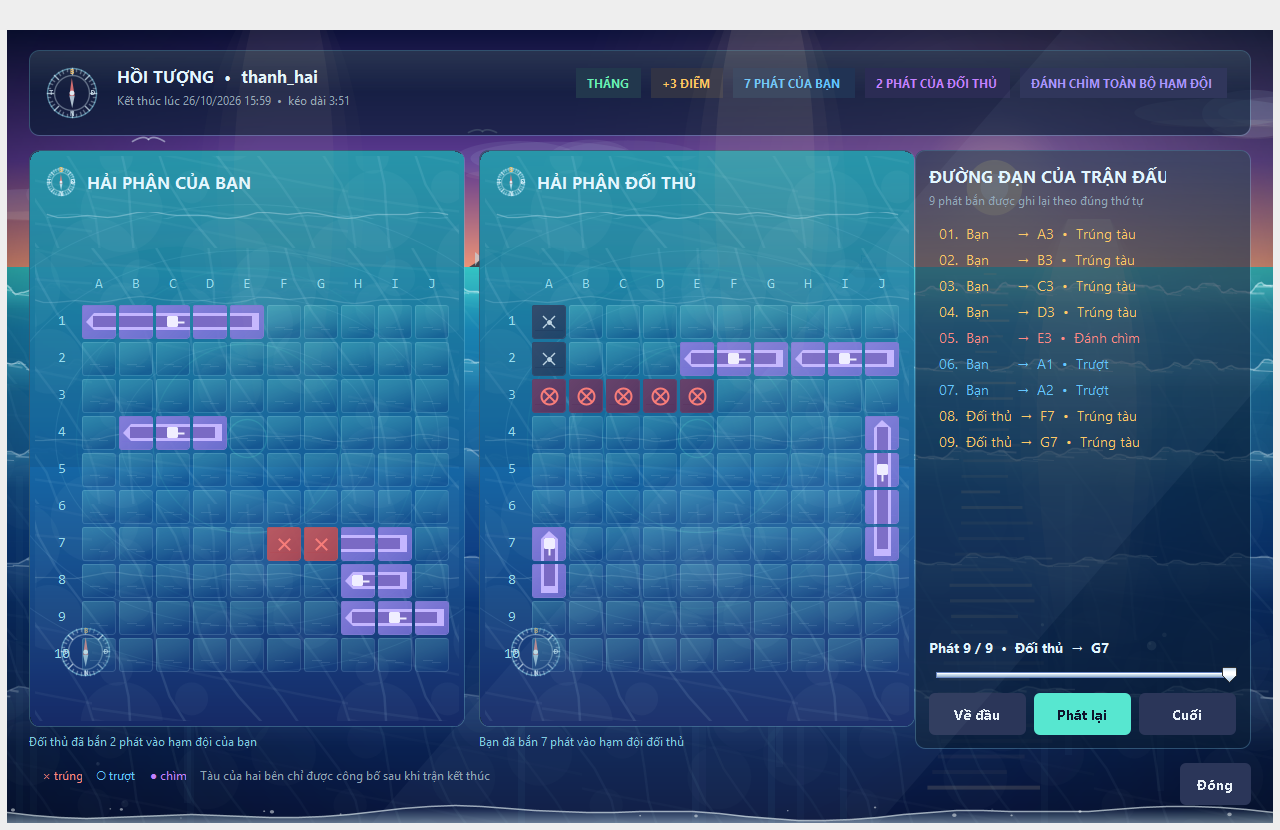
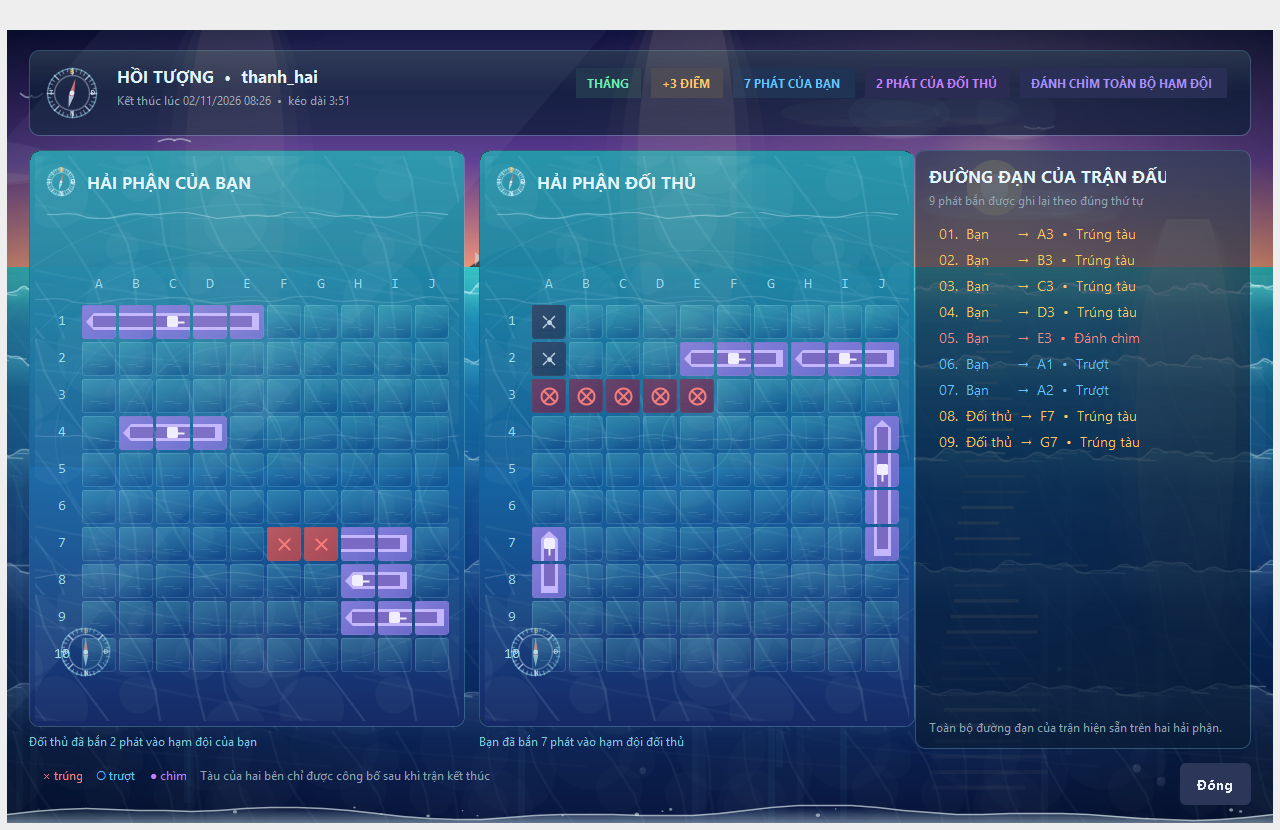
refactor: show the whole match record instead of replaying it
The after-action screen no longer plays the match back: the slider and the Về đầu / Phát lại /
Cuối controls are gone, both charts and the full shot log are drawn as soon as the window opens,
and picking a row in the log no longer rewinds the boards. What stays is the record itself: result
chips, the two fleet charts at their final state, and the shot list in firing order.

The removed playback could never pass its second shot: the slider was built with a maximum of 1 and
never widened to the shot count, so every setValue was clamped and each 360 ms tick recomputed step
2. Storage, the wire protocol and GET_MATCH_DETAIL_REQ are untouched, so the server keeps saving the
result, both fleets and the shot log, still readable only by the two players.

Docs and evidence follow: README and UI_GUIDE describe the record screen without playback,
docs/ui/match-replay.png is re-rendered and match-replay-early.png (the rewound state) is dropped.
OceanVisualTests asserts the screen carries no playback controls and that picking a row leaves the
whole chart and log in place.

Verified: run_tests.ps1 -Ocean PASS, run_tests.ps1 ALL TESTS PASSED.

diff --git a/src/client/ui/MatchReplayDialog.java b/src/client/ui/MatchReplayDialog.java
@@ -44,13 +44,6 @@ public class MatchReplayDialog extends JDialog {
     private final List<Ship> myShips, enemyShips;
     private final DefaultListModel<String> shotModel = new DefaultListModel<>();
     private final JList<String> shotList = new JList<>(shotModel);
-    private final JSlider slider = new JSlider(0, 1, 1);
-    private final JLabel lblStep = Theme.label(" ", Theme.FONT_BOLD, Theme.SEA_FOAM);
-    private final JButton btnPlay = Theme.button("Phát lại", true);
-    private final JButton btnHead = Theme.button("Về đầu", false);
-    private final JButton btnTail = Theme.button("Cuối", false);
-    private final Timer player;
-    private boolean updating;
 
     public MatchReplayDialog(Window parent, int myUserId, Map<String, Object> data) {
         super(parent, "Battleship • Hồi tượng trận đấu", ModalityType.MODELESS);
@@ -107,16 +100,9 @@ public class MatchReplayDialog extends JDialog {
         footer.add(close, BorderLayout.EAST);
         root.add(footer, BorderLayout.SOUTH);
 
-        player = new Timer(360, e -> stepForward());
-        player.setCoalesce(true);
-        slider.addChangeListener(e -> { if (!updating) show(slider.getValue()); });
-        btnPlay.addActionListener(e -> togglePlay());
-        btnHead.addActionListener(e -> { player.stop(); btnPlay.setText("Phát lại"); show(0); });
-        btnTail.addActionListener(e -> { player.stop(); btnPlay.setText("Phát lại"); show(shots.size()); });
         shotList.setCellRenderer(Theme.logRenderer());
-        shotList.addListSelectionListener(e -> { if (!e.getValueIsAdjusting() && !updating && shotList.getSelectedIndex() >= 0) { player.stop(); btnPlay.setText("Phát lại"); show(shotList.getSelectedIndex() + 1); } });
         getRootPane().registerKeyboardAction(e -> dispose(), KeyStroke.getKeyStroke("ESCAPE"), JComponent.WHEN_IN_FOCUSED_WINDOW);
-        show(shots.size());
+        render();
     }
 
     private JPanel chart(String title, BoardGridPanel board, String caption) {
@@ -141,53 +127,21 @@ public class MatchReplayDialog extends JDialog {
         shotList.setFixedCellHeight(26); shotList.setSelectionBackground(new Color(44, 120, 140, 150));
         JScrollPane scroll = Theme.scroll(shotList); Theme.transparentScroll(scroll);
         side.add(scroll, BorderLayout.CENTER);
-        JPanel controls = Theme.stack();
-        Theme.addStack(controls, lblStep, 10);
-        slider.setOpaque(false); slider.setForeground(Theme.PRIMARY); slider.setMaximumSize(new Dimension(Integer.MAX_VALUE, 28));
-        Theme.addStack(controls, slider, 10);
-        JPanel row = Theme.transparent(new GridLayout(1, 3, 8, 0));
-        row.add(btnHead); row.add(btnPlay); row.add(btnTail);
-        row.setMaximumSize(new Dimension(Integer.MAX_VALUE, 42));
-        Theme.addStack(controls, row, 0);
-        side.add(controls, BorderLayout.SOUTH);
+        side.add(Theme.muted("Toàn bộ đường đạn của trận hiện sẵn trên hai hải phận."), BorderLayout.SOUTH);
         return side;
     }
 
-    private void togglePlay() {
-        if (player.isRunning()) { player.stop(); btnPlay.setText("Phát lại"); return; }
-        if (slider.getValue() >= shots.size()) show(0);
-        player.start(); btnPlay.setText("Tạm dừng");
-    }
-
-    private void stepForward() {
-        int next = slider.getValue() + 1;
-        if (next >= shots.size()) { show(shots.size()); player.stop(); btnPlay.setText("Phát lại"); return; }
-        show(next);
-    }
-
-    private void show(int count) {
-        int upTo = Math.max(0, Math.min(count, shots.size()));
-        updating = true;
-        slider.setValue(upTo);
-        shotModel.clear();
-        for (int i = 0; i < upTo; i++) shotModel.addElement(line(i));
-        if (upTo > 0) shotList.ensureIndexIsVisible(upTo - 1);
-        updating = false;
+    private void render() {
         myBoard.resetAllCells(); myBoard.setFleet(myShips);
         enemyBoard.resetAllCells(); enemyBoard.setFleet(enemyShips);
-        for (int i = 0; i < upTo; i++) {
+        for (int i = 0; i < shots.size(); i++) {
+            shotModel.addElement(line(i));
             Shot shot = shots.get(i);
             BoardGridPanel target = shot.mine ? enemyBoard : myBoard;
             if ("SUNK".equals(shot.result)) {
                 for (Coordinate cell : shot.sunk) target.setCellState(cell.getX(), cell.getY(), BoardGridPanel.CellState.SUNK);
                 target.setCellState(shot.x, shot.y, BoardGridPanel.CellState.SUNK);
             } else target.setCellState(shot.x, shot.y, "HIT".equals(shot.result) ? BoardGridPanel.CellState.HIT : BoardGridPanel.CellState.MISS);
-        }
-        if (upTo == 0) lblStep.setText("Chưa bắn phát nào. Nhấn Phát lại để xem toàn bộ đường đạn.");
-        else {
-            Shot last = shots.get(upTo - 1);
-            lblStep.setText(String.format(Locale.ROOT, "Phát %d / %d  •  %s  →  %s", upTo, shots.size(),
-                    last.mine ? "Bạn" : "Đối thủ", BoardGridPanel.coordinate(last.x, last.y)));
         }
     }
 
@@ -201,5 +155,4 @@ public class MatchReplayDialog extends JDialog {
     public JList<String> shots() { return shotList; }
     public BoardGridPanel myBoard() { return myBoard; }
     public BoardGridPanel enemyBoard() { return enemyBoard; }
-    @Override public void dispose() { if (player != null) player.stop(); super.dispose(); }
 }

diff --git a/tests/OceanVisualTests.java b/tests/OceanVisualTests.java
@@ -251,13 +251,11 @@ public final class OceanVisualTests {
             for(int i=0;i<2;i++)check(replayDialog.myBoard().getCellState(myHits.get(i).getX(),myHits.get(i).getY())==BoardGridPanel.CellState.HIT,"replayed own chart shows the enemy hits");
             for(Ship ship:mine)for(Coordinate c:ship.getCoordinates())check(replayDialog.myBoard().getCellState(c.getX(),c.getY())!=BoardGridPanel.CellState.WATER,"own fleet is drawn on the replayed chart");
             for(Coordinate c:theirs.get(4).getCoordinates())check(replayDialog.enemyBoard().getCellState(c.getX(),c.getY())==BoardGridPanel.CellState.SHIP,"untouched ships stay visible on the replayed chart");
+            check(SwingSmoke.button(replayDialog,"Phát lại")==null,"the record screen carries no playback controls");
             SwingSmoke.snapshot(replayDialog,dir.resolve("match-replay.png"));
             replayDialog.shots().setSelectedIndex(2);
-        });
-        SwingSmoke.edt(()->{
-            check(replayDialog.shots().getModel().getSize()==3,"picking a shot rewinds the replay to that point");
-            check(replayDialog.enemyBoard().getCellState(victim.get(3).getX(),victim.get(3).getY())==BoardGridPanel.CellState.SHIP,"later shots are removed when the replay is rewound");
-            SwingSmoke.snapshot(replayDialog,dir.resolve("match-replay-early.png"));
+            check(replayDialog.shots().getModel().getSize()==log.size(),"picking a row keeps the whole shot log on screen");
+            check(replayDialog.enemyBoard().getCellState(victim.get(3).getX(),victim.get(3).getY())==BoardGridPanel.CellState.SUNK,"picking a row leaves every shot on the chart");
             replayDialog.dispose();replayDialog=null;
         });
     }

diff --git a/README.md b/README.md
@@ -129,7 +129,7 @@ Test tự tạo thư mục `%TEMP%/battleship-*`, chọn cổng riêng bằng po
 7. Sau kết thúc bình thường, cả hai Chơi lại trong 30 giây: trở lại đặt tàu với match ID mới, timer của ván hai hoạt động. Từ chối, thoát hoặc hết hạn thì về sảnh.
 8. Dừng server rồi chạy lại: điểm và lịch sử giữ nguyên. Có thể mở bốn client, ghép hai cặp và cho một trận timeout/thoát để chứng minh trận còn lại tiếp tục.
 9. Sau khi hết trận, xem chữ **WIN** hoặc **LOSE** rơi xuống rồi **hai hải phận mở tung**: bàn của bạn với các phát bắn của đối thủ và bàn đối thủ với các phát bắn của bạn, kèm điểm, số phát bắn, độ chính xác và lý do kết thúc.
-10. Mở **Lịch sử đấu** ở cột trái sảnh rồi nhấn vào dòng vừa đấu: màn hình hồi tượng mở ra với hai bàn cờ cùng danh sách đường đạn; dùng **Phát lại**/thanh trượt để tua tới từng phát, hoặc bấm một dòng để nhảy tới phát đó. Dòng ghi trước khi có tính năng sẽ báo không lưu hải phận, và chỉ hai người trong trận mở được.
+10. Mở **Lịch sử đấu** ở cột trái sảnh rồi nhấn vào dòng vừa đấu: màn hình hồi tượng mở ra với hai bàn cờ đã dựng sẵn toàn bộ vết bắn cùng danh sách đường đạn theo đúng thứ tự. Dòng ghi trước khi có tính năng sẽ báo không lưu hải phận, và chỉ hai người trong trận mở được.
 11. Mở **Cài đặt** (ở sảnh, màn hình bố trí tàu hoặc trong trận) để kéo ba mức âm lượng, tắt/bật âm thanh, sóng biển và bản đồ thu nhỏ; kéo thanh trượt có tiếng nghe thử ngay.
 
 Muốn quan sát HIT/SUNK nhanh, hai người có thể tự đặt tàu ngang lần lượt từ cột A ở các hàng 1–5, chiều dài 5,4,3,3,2. Trong demo bình thường, client vẫn không nhận board bí mật của đối thủ.
@@ -186,7 +186,7 @@ Khi trận kết thúc, màn hình kết quả phủ toàn cửa sổ: chữ **W
 
 Sảnh có nút **Lịch sử đấu** ở cột bên trái để xem hồ sơ của chính bạn, và nút **Lịch sử** cạnh **Nhắn tin** để xem hồ sơ của người đang chọn. Cửa sổ hiển thị 20 trận mỗi trang; dùng **Xem thêm**, lọc **Tất cả/Thắng/Thua**, tên đối thủ và khoảng ngày `dd/MM/yyyy` theo múi giờ hiển thị. Bảng cuộn ngang khi cửa sổ nhỏ. Mỗi dòng có đối thủ, kết quả thắng/thua, điểm nhận, số phát bắn, thời lượng, lý do kết thúc và cột **Hải phận**; dữ liệu đọc từ bảng `matches` trên server, client không tự tính kết quả.
 
-**Nhấn vào một dòng để xem lại cả trận:** server trả hai hạm đội và toàn bộ nhật ký bắn (`GET_MATCH_DETAIL_REQ`), client mở màn hình hồi tượng với hai bàn cờ 10×10 cạnh nhau cùng danh sách đường đạn theo đúng thứ tự bắn. Thanh trượt và ba nút **Về đầu / Phát lại / Cuối** phát lại từng phát; bấm một dòng trong danh sách để nhảy tới phát đó và cả hai bàn cờ được dựng lại chính xác đến phát đang xem. Tàu của hai bên chỉ được lưu và công bố **sau khi trận kết thúc**, và chỉ hai đấu thủ của trận xem được (người khác nhận `FORBIDDEN`); trận cũ ghi trước khi có tính năng này báo không có dữ liệu. Suốt trận, tọa độ tàu đối phương vẫn không được gửi về client.
+**Nhấn vào một dòng để xem lại cả trận:** server trả hai hạm đội và toàn bộ nhật ký bắn (`GET_MATCH_DETAIL_REQ`), client mở màn hình hồi tượng với hai bàn cờ 10×10 cạnh nhau đã dựng sẵn mọi vết bắn, kèm danh sách đường đạn theo đúng thứ tự bắn; màn hình chỉ để xem toàn bộ diễn biến một lúc, không tua lại từng phát. Tàu của hai bên chỉ được lưu và công bố **sau khi trận kết thúc**, và chỉ hai đấu thủ của trận xem được (người khác nhận `FORBIDDEN`); trận cũ ghi trước khi có tính năng này báo không có dữ liệu. Suốt trận, tọa độ tàu đối phương vẫn không được gửi về client.
 
 Giao diện cũng được tăng màu: mỗi khu vực một màu nhấn (điểm hổ phách, thắng xanh lá, tỷ lệ xanh da trời, lịch sử hồng tím), thẻ nền chuyển hai màu, bảng tô màu theo cột, nhật ký trận tô màu theo từng phát bắn, và cảnh biển trong trận đổi sang hoàng hôn tím – cam – xanh ngọc.
 

diff --git a/UI_GUIDE.md b/UI_GUIDE.md
@@ -69,11 +69,11 @@ Cảnh biển được tối ưu để không tranh CPU với giao diện: khung
 
 **Lịch sử đấu.** Nút **03 Lịch sử đấu** ở cột bên trái của sảnh mở hồ sơ của chính bạn; chọn một chỉ huy trong danh sách trực tuyến rồi bấm **Lịch sử** để xem hồ sơ của người đó. Cửa sổ hiển thị điểm, số trận thắng và số trận đã đấu trên ba thẻ màu, kèm bảng 20 trận gần nhất: thời gian, đối thủ, kết quả **THẮNG** (xanh lá) hoặc **THUA** (đỏ san hô), điểm nhận, số phát bắn, thời lượng, lý do kết thúc (đánh chìm toàn bộ hạm đội, một bên rời trận, mất kết nối) và cột **Hải phận** (`Xem lại` hoặc `—`). Dữ liệu lấy từ bảng `matches` trong SQLite trên server qua `GET_MATCH_HISTORY_REQ`; client không tự tính kết quả.
 
-**Xem lại một trận (hồi tượng).** Nhấn vào một dòng có `Xem lại` để mở màn hình hồi tượng: hai bàn cờ 10×10 cạnh nhau — **hải phận của bạn** (tàu của bạn cùng các phát bắn của đối thủ) và **hải phận đối thủ** (tàu đối thủ cùng các phát bắn của bạn) — kèm danh sách **đường đạn của trận đấu** theo đúng thứ tự bắn (mỗi dòng tô màu theo kết quả: trúng vàng, trượt xanh, chìm san hô). Thanh trượt và ba nút **Về đầu / Phát lại / Cuối** phát lại từng phát bắn; bấm một dòng trong danh sách để nhảy tới đúng phát đó, hai bàn cờ được dựng lại chính xác đến phát đang xem. Dữ liệu do server trả về qua `GET_MATCH_DETAIL_REQ`, chỉ cho hai đấu thủ của trận; trận cũ không có dữ liệu thì hiện dòng giải thích ngay dưới bảng thay vì gọi server.
+**Xem lại một trận (hồi tượng).** Nhấn vào một dòng có `Xem lại` để mở màn hình hồi tượng: hai bàn cờ 10×10 cạnh nhau — **hải phận của bạn** (tàu của bạn cùng các phát bắn của đối thủ) và **hải phận đối thủ** (tàu đối thủ cùng các phát bắn của bạn) — kèm danh sách **đường đạn của trận đấu** theo đúng thứ tự bắn (mỗi dòng tô màu theo kết quả: trúng vàng, trượt xanh, chìm san hô). Cả hai bàn cờ được dựng sẵn toàn bộ vết bắn ngay khi mở, cùng lúc với danh sách; màn hình chỉ để xem lại trọn vẹn diễn biến của trận chứ không tua từng phát. Dữ liệu do server trả về qua `GET_MATCH_DETAIL_REQ`, chỉ cho hai đấu thủ của trận; trận cũ không có dữ liệu thì hiện dòng giải thích ngay dưới bảng thay vì gọi server.
 
 **Xem tàu đối thủ khi trận kết thúc.** Khi trận đấu kết thúc, server gửi kèm hạm đội của đối phương trong `MATCH_END` (`opponent_ships`). Ngay lúc đó client công bố hạm đội đó lên bàn cờ đối thủ: những ô chưa bị bắn hiện hình tàu, còn ô đã bắn giữ nguyên vết trúng/trượt/chìm. Trước khi trận kết thúc, tọa độ tàu đối phương không bao giờ được gửi về client.
 
-Ảnh: [lịch sử đấu](docs/ui/match-history.png), [hồi tượng trận đấu](docs/ui/match-replay.png), [hồi tượng khi tua lại](docs/ui/match-replay-early.png).
+Ảnh: [lịch sử đấu](docs/ui/match-history.png), [hồi tượng trận đấu](docs/ui/match-replay.png).
 
 ## Kết quả trận: WIN / LOSE và hai hải phận
 
